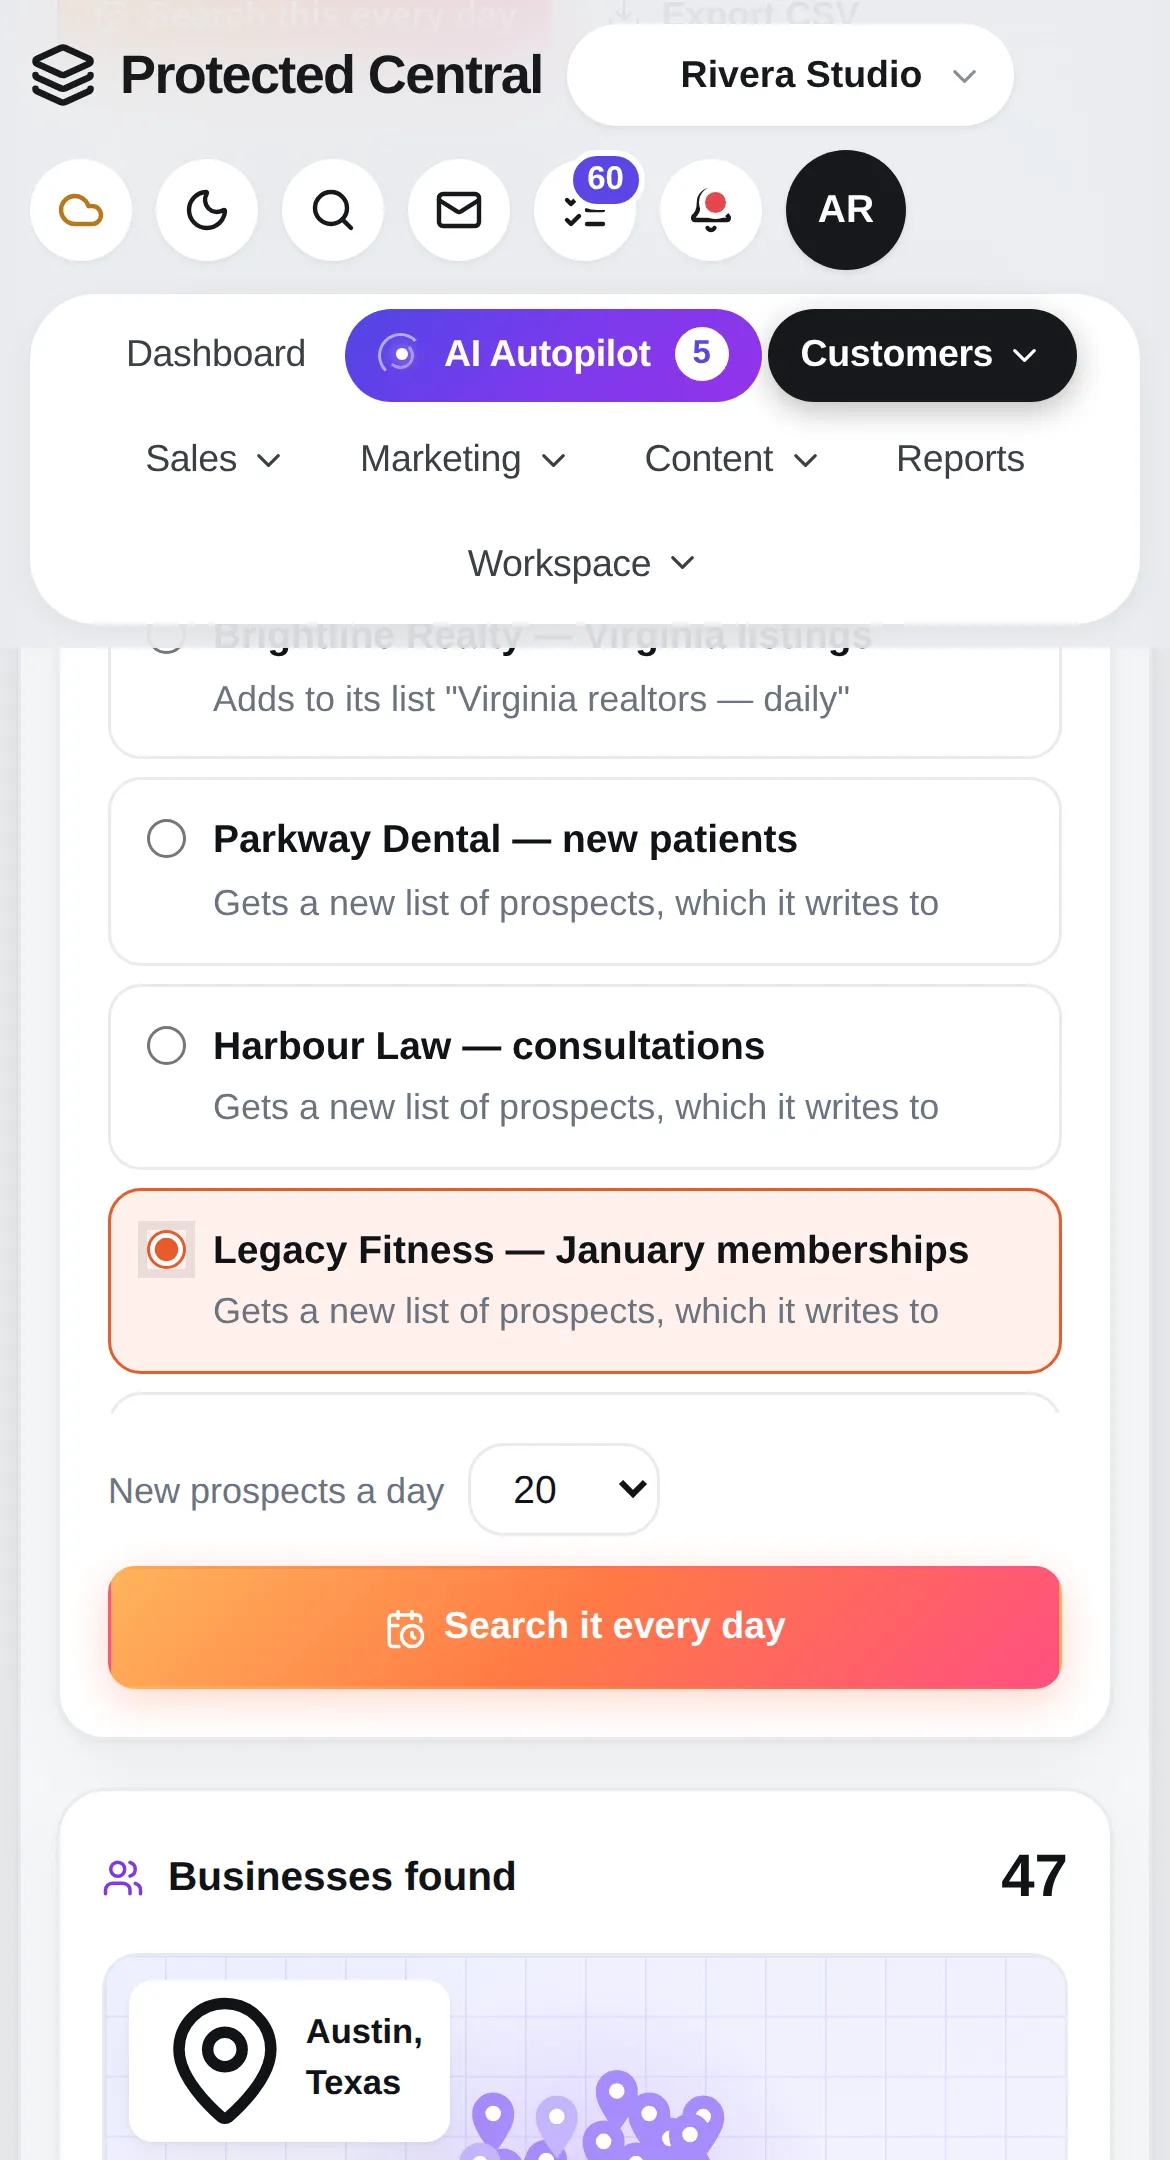
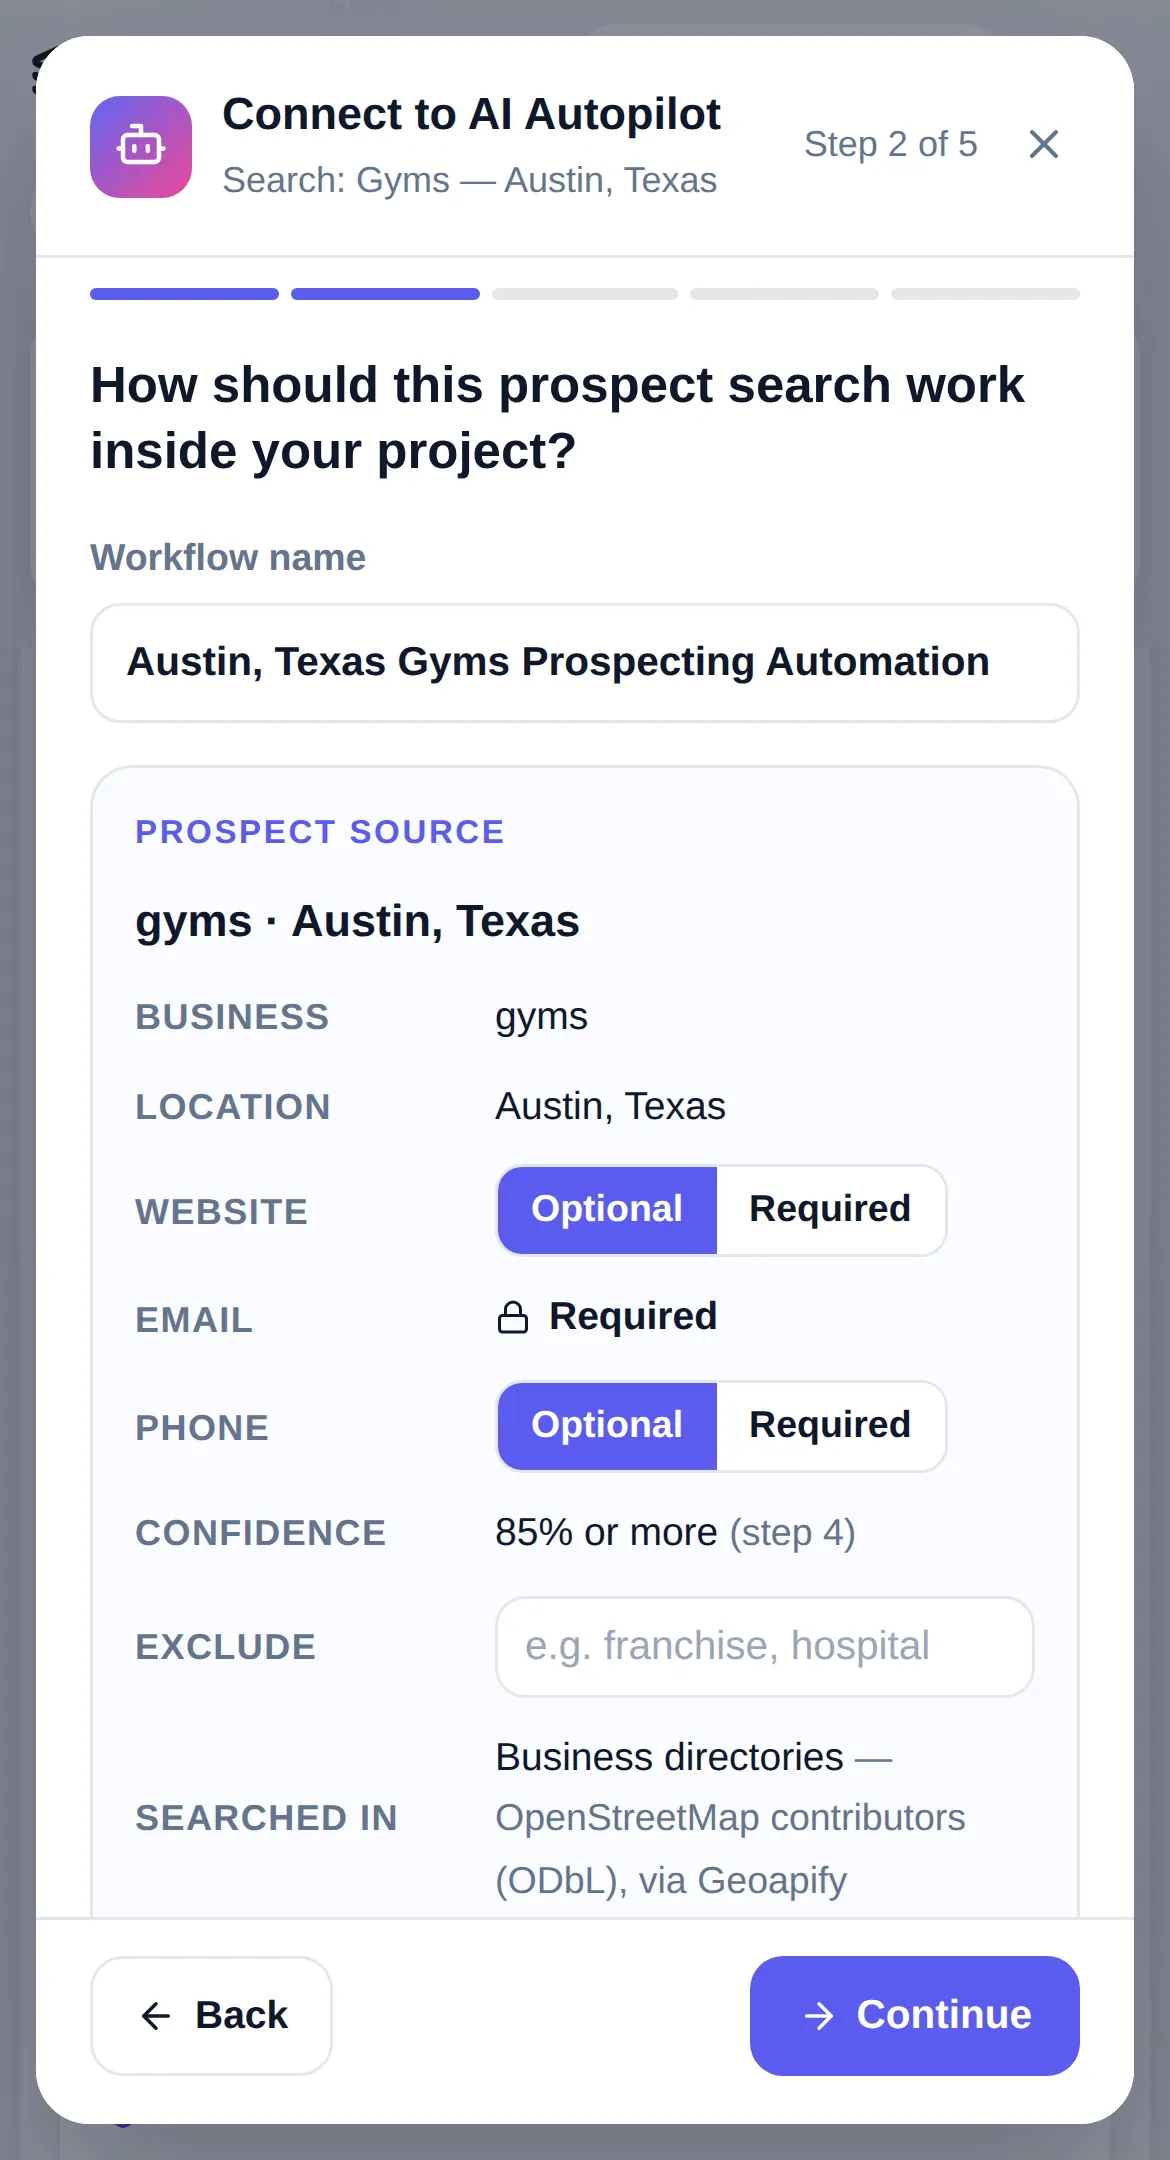
Prospect sources: older finders stay in view, site picture of the Connect wizard
- A project that already runs a finder by kinds of business and places sees
  it in full on the Prospects tab; one without sees a single line under its
  connected searches.
- The finder engine loads the workflow engine only when a lead is sent on,
  so the site's screenshot script (Node) can import it again.
- The site's AI Prospecting reel now shows the Connect to AI Autopilot wizard
  instead of the panel it replaced; docs/PROSPECT-SOURCES.md for the owner.

Claude-Session: https://claude.ai/code/session_01FpybujBGSRe4WzAZZq322K

diff --git a/worker/src/prospectFinderTick.ts b/worker/src/prospectFinderTick.ts
@@ -55,7 +55,6 @@ import {
   DEFAULT_DESTINATION, DEFAULT_FILTERS, DEFAULT_VERIFY, REJECT_LABEL, SOURCE_POLICY, nextRunStart, policyFor, qualify, runLimits, runNow,
   type Check, type Destination, type Filters, type RejectReason, type RunPlan, type Schedule, type Verify,
 } from './lib/prospectSources';
-import { enrolInto } from './lib/automationEngine';
 import { loadPolicy } from './lib/sourcePolicyStore';
 
 /** Leave Geoapify to people searching by hand once the install has used this much of the day. */
@@ -294,6 +293,10 @@ async function afterAdded(env: Env, f: FinderRow, conn: Connection, rows: PPRow[
     for (const r of rows) done.get(r.id)!.push(ok && stageName ? `Deal in ${stageName}` : 'No deal — that pipeline was not found');
   }
   if (d.nextWorkflowId) {
+    /* Loaded here rather than at the top: the engine brings the mail sender,
+       whose socket module exists only on Workers, and the site's screenshot
+       script imports this file under Node. */
+    const { enrolInto } = await import('./lib/automationEngine');
     const e = await enrolInto(env, f.account_id, d.nextWorkflowId, rows.map(r => ({ id: `pf-${r.id}`, name: r.name, email: r.email, phone: r.phone })));
     for (const r of rows) done.get(r.id)!.push(e.ok ? `Sent to ${e.name}` : `Not sent on: ${e.error}`);
     if (!e.ok) await log(env, f, 'error', `Next workflow: ${e.error}`);
